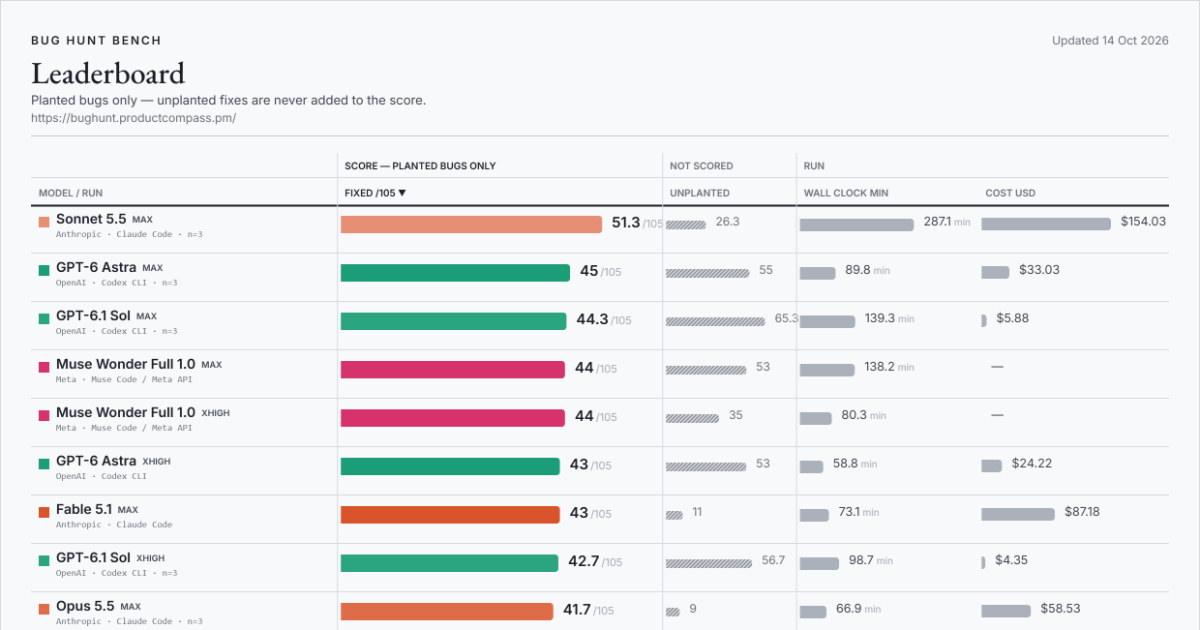
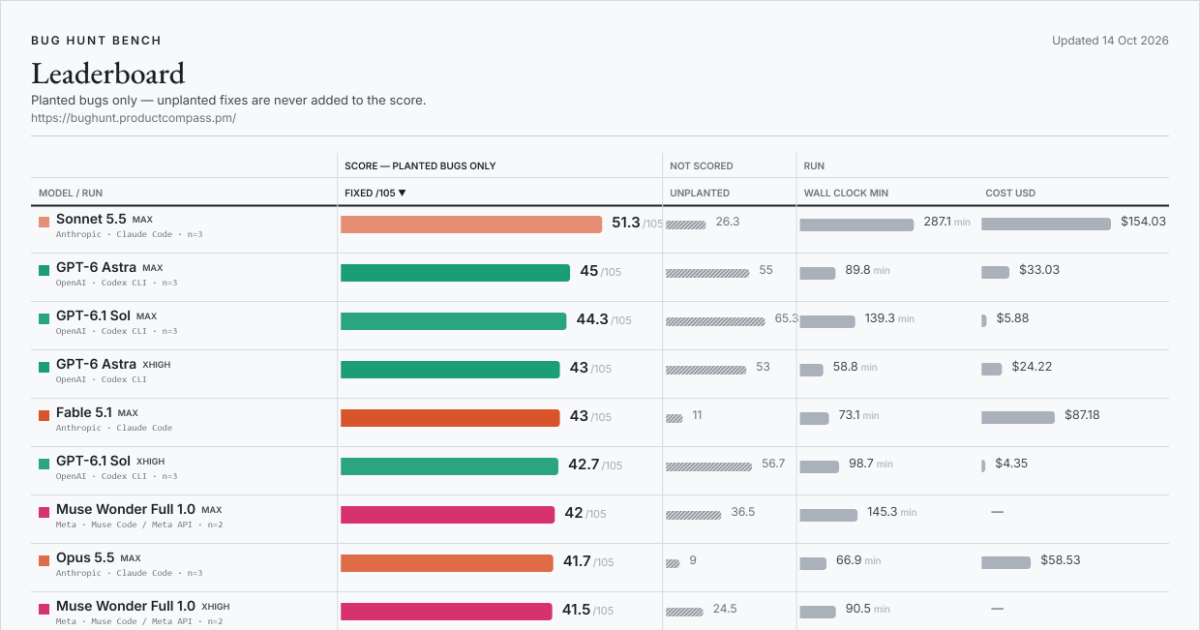
bug hunt bench: Muse Wonder Full 1.0 (max effort, Muse Code, Meta API) - mean of 2 (42/105)

diff --git a/index.html b/index.html
@@ -22,14 +22,14 @@
 <meta property="og:title" content="Bug Hunt Bench — frontier coding models against real planted bugs">
 <meta property="og:description" content="A blind-graded benchmark of frontier coding models on real bugs planted in two production codebases. The score counts planted bugs only; extra fixes are tracked separately and never added.">
 <meta property="og:url" content="https://bughunt.productcompass.pm/">
-<meta property="og:image" content="https://bughunt.productcompass.pm/og-image.png?v=2026-10-14-daccc48e">
+<meta property="og:image" content="https://bughunt.productcompass.pm/og-image.png?v=2026-10-14-f65923af">
 <meta property="og:image:width" content="1200">
 <meta property="og:image:height" content="630">
 <meta property="og:image:alt" content="Bug Hunt Bench leaderboard">
 <meta name="twitter:card" content="summary_large_image">
 <meta name="twitter:title" content="Bug Hunt Bench — frontier coding models against real planted bugs">
 <meta name="twitter:description" content="A blind-graded benchmark of frontier coding models on real bugs planted in two production codebases. The score counts planted bugs only.">
-<meta name="twitter:image" content="https://bughunt.productcompass.pm/og-image.png?v=2026-10-14-daccc48e">
+<meta name="twitter:image" content="https://bughunt.productcompass.pm/og-image.png?v=2026-10-14-f65923af">
 <meta name="twitter:creator" content="@PawelHuryn">
 
 <link rel="icon" href="/assets/favicon.svg" type="image/svg+xml">

diff --git a/method.html b/method.html
@@ -20,14 +20,14 @@
 <meta property="og:title" content="Method, caveats and definitions — Bug Hunt Bench">
 <meta property="og:description" content="How Bug Hunt Bench is run and graded, what the board cannot tell you, and what every column on it means.">
 <meta property="og:url" content="https://bughunt.productcompass.pm/method">
-<meta property="og:image" content="https://bughunt.productcompass.pm/og-image.png?v=2026-10-14-daccc48e">
+<meta property="og:image" content="https://bughunt.productcompass.pm/og-image.png?v=2026-10-14-f65923af">
 <meta property="og:image:width" content="1200">
 <meta property="og:image:height" content="630">
 <meta property="og:image:alt" content="Bug Hunt Bench leaderboard">
 <meta name="twitter:card" content="summary_large_image">
 <meta name="twitter:title" content="Method, caveats and definitions — Bug Hunt Bench">
 <meta name="twitter:description" content="How Bug Hunt Bench is run and graded, what the board cannot tell you, and what every column on it means.">
-<meta name="twitter:image" content="https://bughunt.productcompass.pm/og-image.png?v=2026-10-14-daccc48e">
+<meta name="twitter:image" content="https://bughunt.productcompass.pm/og-image.png?v=2026-10-14-f65923af">
 <meta name="twitter:creator" content="@PawelHuryn">
 
 <link rel="icon" href="/assets/favicon.svg" type="image/svg+xml">

diff --git a/results/run-notes.md b/results/run-notes.md
@@ -2,7 +2,7 @@
 
 Every row on the board, with the note and caveat it carries. Generated from `data/benchmark.json` by `bench_golive.py` - do not edit by hand.
 
-Updated Oct 14, 2026 · 180 rows from 221 scored runs. Superseded rows are listed last.
+Updated Oct 14, 2026 · 182 rows from 223 scored runs. Superseded rows are listed last.
 
 ## Sonnet 5.5 (max effort) - mean of 3
 
@@ -28,22 +28,6 @@ THE TOP ROW OF THIS BOARD, RUN THREE TIMES. Runs scored 48, 40 and 47 of 105 (re
 
 OpenAI's GPT-6.1 Sol at max effort through OpenAI's own Codex CLI, on a ChatGPT account, published as the MEAN OF THREE INDEPENDENT RUNS. Runs scored 44, 42 and 47 of 105 (repo 1: 21, 21, 25 - repo 2: 23, 21, 22). Mean 44.3, range 5. *** THIS SUPERSEDES GPT-6.1 SOL (MAX EFFORT) (44 OF 105) *** *** THE REPLICATES ARE BYTE-IDENTICAL TO THE FIRST RUN *** same model string, effort, pinned CLI, timeout, price table and blind judge; only the arm name differs, so the spread is run-to-run variance. *** WALL, COST AND TURNS *** walls 112.4, 175.1, 130.5 minutes; cost $6.56, $6.16, $4.92; turns 280, 294, 236. *** GENUINE EXTRAS *** 59, 58, 79 across the runs, never folded into the score. The GPT-6.1 Sol ladder elsewhere on the board: GPT-6.1 Sol at low 31, GPT-6.1 Sol at medium 28, GPT-6.1 Sol at high 38, GPT-6.1 Sol at xhigh 41. At the same tier the board publishes GPT-6 Sol at max 29.3 (mean of 3), GPT-6 Astra at max 45 (mean of 3), Sonnet 5.5 at max 51.3 (mean of 3) of 105. *** MAX IS NOT THIS MODEL'S TOP TIER *** the account's own Codex model list offers low, medium, high, xhigh, max, ultra for gpt-6.1-sol - 'ultra' sits above max ('Maximum reasoning with automatic task delegation'), so this row is not marked as the model's ceiling. *** THIS ROW RUNS A NEWER CODEX BUILD THAN THE OTHER OPENAI ROWS, UNAVOIDABLY *** the build the rest of this board's OpenAI rows use answers 'not supported when using Codex with a ChatGPT account' for this model on the same account at the same minute that Codex 0.159.0 runs it, so the blocker is the client, not entitlement. The GPT-6 Sol rows ran on 0.155.1, so a gap against them is model-plus-client. (That rejection message is generic - a made-up slug gets it word for word - so it is never evidence about whether a model exists; the API's own model list settled that.) *** THE TIER IS VERIFIED, NOT ASSUMED *** the effort is a first-party Codex tier from the account's own model list, and every leg's own Codex session record shows it ran at max. *** AN EARLIER ATTEMPT IS VOIDED IN THE LEDGER *** Codex's sandbox was misconfigured on the machine and refused every command the model tried, so it never ran one; the runner marked it void (exit 90) and the published figures are clean re-runs. *** COST IS A LIST ESTIMATE *** token counts at OpenAI's published GPT-6.1 Sol short-context rates, $2 input, $0.10 cached, $10 output per million. Requests over 272K input bill 2x on input and cache and 1.5x on output; none of these legs sent one - Codex caps this model's context below that line, and the session records confirm every request stayed under it. The Codex CLI on a subscription exposes no per-run bill, hence `list`. *** THE JUDGE IS NOT THIS BOARD'S DEFAULT, BY RULE *** a model may never judge itself or a sibling, and the default Codex judge is an OpenAI model, so it is disqualified for this arm. Judged by grok-4.7, blinded to the arm's identity - the id is read back from the scoring receipt. *** RECEIPTS *** Every leg exited 0 with a report written, run SEQUENTIALLY, one repo at a time, code mode off as on the GPT-6 Sol arms. No other benchmark leg overlapped these legs - the only load this board's marker records - but the laptop also ran interactive coding-agent sessions over these nights, at times near full CPU, so wall figures may run high; scores, tokens and cost are unaffected.
 
-## Muse Wonder Full 1.0 (max effort, Muse Code, Meta API)
-
-**44 / 105** · repo 1 22/45 · repo 2 22/60 · 53 unplanted · 138.2 min · — · `max` · Muse Code / Meta API · single run · 2026-10-13
-
-**Caveat.** One run (44 of 105). Cost unknown: Meta publishes no price for this model. Effort max is the top tier Meta lists for it, not magnitude-probed. Both repos ran at the same time.
-
-Meta's Muse Wonder Full 1.0 at max effort through Muse Code, Meta's own agent CLI, released 2026-10-12 alongside Muse Wonder 1.0. ONE RUN: 44 of 105 - 22 of 45 on repo 1 and 22 of 60 on repo 2 - with 2 partial fix(es), 0 claimed-only and 53 genuine unplanted extras; 138.2 minutes. *** AGAINST MUSE WONDER 1.0 *** same harness, route and effort: Wonder's mean of three is 31.7 (30, 36 and 29), 12.0 on repo 1 and 19.7 on repo 2. Full's lead is almost all on repo 1 (22 against 12.0); on repo 2 it sits near the top of Wonder's range. Muse Spark 1.3 at max stands at 32.2. A single run: Wonder's own three runs spread 7 points. *** COST UNKNOWN *** Meta publishes no rate for Full - its own model catalog lists the cost as empty and no aggregator carries the model - so the cost column is left blank rather than estimated. Tokens are exact: 108 million across both repos, 104 million of them cache reads. The run used a subscription, so there is no bill either. *** EFFORT max *** the top entry of the effort list Muse Code's model catalog gives this model (minimal to max); not magnitude-probed. The tier describes Muse Code's main loop; its reminder-observer side agent runs at its own fixed efforts. *** RECEIPTS *** Both legs exited 0, run at the same time. Muse Code 1.4.1 (1.4.1-R4503.1). Every leg shared the laptop with another arm, which the wall marker discloses - scores, tokens and cost are untouched by that, only the clock. Judge: blind Codex gpt-5.5, which is neither this model nor a sibling of it.
-
-## Muse Wonder Full 1.0 (xhigh effort, Muse Code, Meta API)
-
-**44 / 105** · repo 1 16/45 · repo 2 28/60 · 35 unplanted · 80.3 min · — · `xhigh` · Muse Code / Meta API · single run · 2026-10-13
-
-**Caveat.** One run (44 of 105). Cost unknown: Meta publishes no price for this model. Effort xhigh is one tier below max, not magnitude-probed. Both repos ran at the same time.
-
-Meta's Muse Wonder Full 1.0 at xhigh effort - one tier below max - through Muse Code, Meta's own agent CLI. ONE RUN: 44 of 105 - 16 of 45 on repo 1 and 28 of 60 on repo 2 - with 3 partial fix(es), 0 claimed-only and 35 genuine unplanted extras; 80.3 minutes. *** AGAINST MAX *** the same model at max, also one run, scored 44 (22 on repo 1, 22 on repo 2) in 138.2 minutes. The totals land together and the split does not: max led on repo 1, xhigh on repo 2. With one run each, the two tiers are not separated here. Muse Wonder 1.0 at max stands at 31.7 (mean of three) and Muse Spark 1.3 at max at 32.2. *** COST UNKNOWN *** Meta publishes no rate for Full - its own model catalog lists the cost as empty - so the cost column is left blank rather than estimated. Tokens are exact: 72 million across both repos. The run used a subscription, so there is no bill either. *** EFFORT xhigh *** a tier in the effort list Muse Code's model catalog gives this model (minimal to max); not magnitude-probed, not the ceiling. The tier describes Muse Code's main loop; its reminder-observer side agent runs at its own fixed efforts. *** RECEIPTS *** Both legs exited 0, run at the same time. Muse Code 1.4.1 (1.4.1-R4503.1). Every leg shared the laptop with another arm, which the wall marker discloses - scores, tokens and cost are untouched by that, only the clock. Judge: blind Codex gpt-5.5, which is neither this model nor a sibling of it.
-
 ## GPT-5.6 Sol (max effort) - mean of 2
 
 **43.5 / 105** · repo 1 19/45 · repo 2 24.5/60 · 48.5 unplanted · 253.1 min · $95.35 · `max` · Codex CLI · mean of 2 runs · 2026-09-16
@@ -68,6 +52,14 @@ THE FIRST REPLICATION OF THIS MODEL'S TOP EFFORT SETTING. Runs scored 40 and 47 
 
 OpenAI's GPT-6.1 Sol at xhigh effort through OpenAI's own Codex CLI, on a ChatGPT account, published as the MEAN OF THREE INDEPENDENT RUNS. Runs scored 41, 43 and 44 of 105 (repo 1: 24, 22, 21 - repo 2: 17, 21, 23). Mean 42.7, range 3. *** THIS SUPERSEDES GPT-6.1 SOL (XHIGH EFFORT) (41 OF 105) *** *** THE REPLICATES ARE BYTE-IDENTICAL TO THE FIRST RUN *** same model string, effort, pinned CLI, timeout, price table and blind judge; only the arm name differs, so the spread is run-to-run variance. *** WALL, COST AND TURNS *** walls 80.6, 98.9, 116.7 minutes; cost $4.68, $4.14, $4.22; turns 211, 189, 201. *** GENUINE EXTRAS *** 63, 46, 61 across the runs, never folded into the score. The GPT-6.1 Sol ladder elsewhere on the board: GPT-6.1 Sol at low 31, GPT-6.1 Sol at medium 28, GPT-6.1 Sol at high 38, GPT-6.1 Sol at max 44.3 (mean of 3). At the same tier the board publishes GPT-6 Sol at xhigh 25, GPT-6 Astra at xhigh 43, Sonnet 5.5 at xhigh 36 (mean of 3) of 105. *** THIS ROW RUNS A NEWER CODEX BUILD THAN THE OTHER OPENAI ROWS, UNAVOIDABLY *** the build the rest of this board's OpenAI rows use answers 'not supported when using Codex with a ChatGPT account' for this model on the same account at the same minute that Codex 0.159.0 runs it, so the blocker is the client, not entitlement. The GPT-6 Sol rows ran on 0.155.1, so a gap against them is model-plus-client. (That rejection message is generic - a made-up slug gets it word for word - so it is never evidence about whether a model exists; the API's own model list settled that.) *** THE TIER IS VERIFIED, NOT ASSUMED *** the effort is a first-party Codex tier from the account's own model list, and every leg's own Codex session record shows it ran at xhigh. *** COST IS A LIST ESTIMATE *** token counts at OpenAI's published GPT-6.1 Sol short-context rates, $2 input, $0.10 cached, $10 output per million. Requests over 272K input bill 2x on input and cache and 1.5x on output; none of these legs sent one - Codex caps this model's context below that line, and the session records confirm every request stayed under it. The Codex CLI on a subscription exposes no per-run bill, hence `list`. *** THE JUDGE IS NOT THIS BOARD'S DEFAULT, BY RULE *** a model may never judge itself or a sibling, and the default Codex judge is an OpenAI model, so it is disqualified for this arm. Judged by grok-4.7, blinded to the arm's identity - the id is read back from the scoring receipt. *** RECEIPTS *** Every leg exited 0 with a report written, run SEQUENTIALLY, one repo at a time, code mode off as on the GPT-6 Sol arms. No other benchmark leg overlapped these legs - the only load this board's marker records - but the laptop also ran interactive coding-agent sessions over these nights, at times near full CPU, so wall figures may run high; scores, tokens and cost are unaffected.
 
+## Muse Wonder Full 1.0 (max effort, Muse Code, Meta API) - mean of 2
+
+**42 / 105** · repo 1 21.5/45 · repo 2 20.5/60 · 36.5 unplanted · 145.3 min · — · `max` · Muse Code / Meta API · mean of 2 runs · 2026-10-14
+
+**Caveat.** Mean of two runs (44 and 40 of 105). Run 2 ran in resumed segments; its time is active time only, and it spans Muse Code 1.4.1 and 1.4.7. Cost unknown: Meta publishes no price for this model.
+
+Meta's Muse Wonder Full 1.0 at max effort through Muse Code, Meta's own agent CLI. MEAN OF TWO RUNS: 44 and 40 of 105 (repo 1: 22 and 21 of 45 - repo 2: 22 and 19 of 60), mean 42.0. Genuine unplanted extras 53 and 20; claimed-only fixes 0 and 0. Active minutes 138.2 and 152.3. *** XHIGH, ALSO A MEAN OF TWO *** stands at 41.5 (16.0 on repo 1, 25.5 on repo 2). One run each had tied the tiers at 44; two runs each put max narrowly ahead. The tiers split the repos consistently: max leads on repo 1, xhigh on repo 2. *** RUN 2 RAN IN SEGMENTS *** It was interrupted - by the subscription's usage windows, by an operator stop and by a closed console - and each time Muse Code continued the same session. Its wall counts active time only: each segment from its first model call to its last before any refusal; every pause is excluded. Run 2 also straddles a harness update: Muse Code 1.4.1 for its first segment(s), 1.4.7 after the launcher updated itself. *** COST UNKNOWN *** Meta publishes no rate for Full; the cost column is blank, not estimated. *** EFFORT max *** the top of the effort list Muse Code's catalog gives this model; not magnitude-probed. The tier describes Muse Code's main loop. *** RECEIPTS *** 2 of the 4 legs shared the laptop with another arm and the rest had it to themselves, which the wall marker discloses per leg - scores, tokens and cost are untouched by that, only the clock. Judge: blind Codex gpt-5.5, which is neither this model nor a sibling of it.
+
 ## Opus 5.5 (max effort) - mean of 3
 
 **41.7 / 105** · repo 1 19/45 · repo 2 22.7/60 · 9 unplanted · 66.9 min · $58.53 · `max` · Claude Code · mean of 3 runs · 2026-09-23
@@ -75,6 +67,14 @@ OpenAI's GPT-6.1 Sol at xhigh effort through OpenAI's own Codex CLI, on a ChatGP
 **Caveat.** Three runs of an identical configuration scoring 43, 39 and 43 of 105 - spread 4. Read the mean with that width, not as a point. Runs a 1M context window with zero compactions; every Opus 5 row here runs 200K and compacted, so this ladder does not compare cleanly to that one. Cost is a list-rate estimate, not an invoice. Wall figures are contended.
 
 Anthropic's Opus 5.5 at max effort through Claude Code on the first-party API, published as the MEAN OF THREE INDEPENDENT RUNS. Runs scored 43, 39 and 43 of 105 (repo 1: 18, 17, 22 of 45 - repo 2: 25, 22, 21 of 60). Mean 41.7, spread 4. *** THIS SUPERSEDES OPUS 5.5 (MAX EFFORT) - MEAN OF 2 (41.0 OF 105) *** *** WHY THE REPLICATES EXIST *** the first pass measured this ladder at one run per rung and it came out monotone - medium 30, high 32, xhigh 35, max 43. That was suggestive and nothing more: no gap in it exceeded the 13-point spread this board has measured between two runs of ONE identical max-effort configuration, so the ordering of any two adjacent rungs was unresolved and every note said so. Three runs per rung is what can resolve it, and the whole ladder is being re-measured that way rather than only its top. The board currently reads low 22.3 (n=3), medium 30.3 (n=3), high 31.7 (n=3), xhigh 36 (n=3), max 41.7 (n=3). *** THE REPLICATES ARE BYTE-IDENTICAL TO THE FIRST RUN *** same model string claude-opus-5-5[1m], same effort, same timeout, same price table, same blind judge. Only the arm name differs, so the spread above is run-to-run variance and nothing else. *** WALL AND COST *** Walls 68.5, 60.0, 72.2 minutes, mean 66.9; cost $60.49, $58.39, $56.69, mean $58.52. COST IS A LIST ESTIMATE at Anthropic's published Opus 5.5 rates - $4 input, $20 output, $0.20 cache read (a 0.05x cache multiplier unique to this model, where every other model here uses 0.1x) and $8 cache write, the 1-hour rate, which is what this harness actually writes and what the streams confirm. Not an invoice, hence `list`. *** GENUINE EXTRAS *** 9, 9 and 9 across the runs, mean 9.0 - real defects found in the repos that nobody planted, reported separately and never folded into the score. *** THE CONTEXT WINDOW *** every run here holds a 1M window and crosses zero compaction boundaries, so these rows compare cleanly to each other and NOT to the Opus 5 ladder, which ran the CLI's default 200K and compacted repeatedly mid-task. Autocompact ran at the CLI's own default throughout. *** RECEIPTS *** All legs exited 0, run SEQUENTIALLY, one repo at a time. Judge: blind Codex gpt-5.5 on every leg - an OpenAI model scoring an Anthropic one, so neither the model itself nor a sibling of it. The runs shared the laptop with legs from other vendors, which the wall marker discloses; scores, tokens and cost are untouched by that, only the clock.
+
+## Muse Wonder Full 1.0 (xhigh effort, Muse Code, Meta API) - mean of 2
+
+**41.5 / 105** · repo 1 16/45 · repo 2 25.5/60 · 24.5 unplanted · 90.5 min · — · `xhigh` · Muse Code / Meta API · mean of 2 runs · 2026-10-14
+
+**Caveat.** Mean of two runs (44 and 39 of 105). Run 2 ran in resumed segments; its time is active time only, and it spans Muse Code 1.4.1 and 1.4.7. Cost unknown: Meta publishes no price for this model.
+
+Meta's Muse Wonder Full 1.0 at xhigh effort through Muse Code, Meta's own agent CLI. MEAN OF TWO RUNS: 44 and 39 of 105 (repo 1: 16 and 16 of 45 - repo 2: 28 and 23 of 60), mean 41.5. Genuine unplanted extras 35 and 14; claimed-only fixes 0 and 0. Active minutes 80.3 and 100.8. *** MAX, ALSO A MEAN OF TWO *** stands at 42.0 (21.5 on repo 1, 20.5 on repo 2). One run each had tied the tiers at 44; two runs each put max narrowly ahead. The tiers split the repos consistently: max leads on repo 1, xhigh on repo 2. *** RUN 2 RAN IN SEGMENTS *** It was interrupted - by the subscription's usage windows, by an operator stop and by a closed console - and each time Muse Code continued the same session. Its wall counts active time only: each segment from its first model call to its last before any refusal; every pause is excluded. Run 2 also straddles a harness update: Muse Code 1.4.1 for its first segment(s), 1.4.7 after the launcher updated itself. *** COST UNKNOWN *** Meta publishes no rate for Full; the cost column is blank, not estimated. *** EFFORT xhigh *** one tier below the top of the effort list Muse Code's catalog gives this model; not magnitude-probed. The tier describes Muse Code's main loop. *** RECEIPTS *** 2 of the 4 legs shared the laptop with another arm and the rest had it to themselves, which the wall marker discloses per leg - scores, tokens and cost are untouched by that, only the clock. Judge: blind Codex gpt-5.5, which is neither this model nor a sibling of it.
 
 ## Gemini 4 Argon (high effort, Antigravity CLI) - mean of 3
 
@@ -833,6 +833,26 @@ Anthropic's Sonnet 5.5 at max effort through Claude Code on the first-party API,
 **Caveat.** ONE RUN, not a mean - this board has measured a 13-point spread between two runs of a single identical configuration, so treat 44 as one draw. It runs Codex 0.159.0, newer than every other OpenAI row, because the build the others use refuses this model; the harness is not held fixed across that comparison. Max is not this model's top tier (the account also offers ultra). Cost is a list-rate estimate; no request reached the long-context rates (Codex caps the context for this model below 272K). The wall figure may include load from other work on the laptop.
 
 OpenAI's GPT-6.1 Sol at max effort through OpenAI's own Codex CLI, on a ChatGPT account - the same auth path as every other Sol, Astra, Terra and Luna row here, NOT the metered API. 44 of 105: 21 of 45 on repo 1 and 23 of 60 on repo 2, 59 genuine extras, 112.4 minutes, $6.56, 280 turns (133 and 147). ONE RUN, measured the night the model became reachable. For comparison the board publishes GPT-6 Sol at max 29.3 (mean of 3), GPT-6 Astra at max 45 (mean of 3), GPT-5.6 Sol at max 43.5 (mean of 2), Sonnet 5.5 at max 51.3 (mean of 3) of 105. *** MAX IS NOT THIS MODEL'S TOP TIER *** the account's own Codex model list offers low, medium, high, xhigh, max, ultra for gpt-6.1-sol - 'ultra' sits above max ('Maximum reasoning with automatic task delegation'), so this row is not marked as the model's ceiling. *** THIS ROW RUNS A NEWER CODEX BUILD THAN THE OTHER OPENAI ROWS, UNAVOIDABLY *** the build the rest of this board's OpenAI rows use answers 'not supported when using Codex with a ChatGPT account' for this model on the same account at the same minute that Codex 0.159.0 runs it, so the blocker is the client, not entitlement. The GPT-6 Sol rows ran on 0.155.1, so a gap against them is model-plus-client. (That rejection message is generic - a made-up slug gets it word for word - so it is never evidence about whether a model exists; the API's own model list settled that.) *** AN EARLIER ATTEMPT IS VOIDED IN THE LEDGER *** Codex's sandbox was misconfigured on the machine and refused every command the model tried, so it never ran one; the runner marked it void (exit 90) and this row is a clean re-run. *** COST IS A LIST ESTIMATE *** token counts at OpenAI's published GPT-6.1 Sol short-context rates, $2 input, $0.10 cached, $10 output per million - half GPT-6 Sol's cached rate. Requests over 272K input bill 2x on input and cache and 1.5x on output; none of these legs sent one - Codex caps this model's context below that line, and the session records confirm every request stayed under it. The Codex CLI on a subscription exposes no per-run bill, hence `list`. *** THE JUDGE IS NOT THIS BOARD'S DEFAULT, BY RULE *** a model may never judge itself or a sibling, and the default Codex judge is an OpenAI model, so it is disqualified for this arm. Judged by grok-4.7, blinded to the arm's identity - the id is read back from the scoring receipt. *** RECEIPTS *** Both legs exited 0 with a report written, run SEQUENTIALLY, one repo at a time, code mode off as on the GPT-6 Sol arms. No other benchmark leg overlapped either leg - the only load this board's marker records - but the laptop was running several interactive coding-agent sessions that evening, at times near full CPU, so the wall figure may run high; scores, tokens and cost are unaffected.
+
+## Muse Wonder Full 1.0 (max effort, Muse Code, Meta API)
+
+**44 / 105** · repo 1 22/45 · repo 2 22/60 · 53 unplanted · 138.2 min · — · `max` · Muse Code / Meta API · single run · 2026-10-13
+
+**Superseded.** Superseded 2026-10-14 by the mean of two runs (42.0 of 105). This row reported 44 of 105 from a single run. Nothing here is retracted - it is the receipt for what the board showed before run 2.
+
+**Caveat.** One run (44 of 105). Cost unknown: Meta publishes no price for this model. Effort max is the top tier Meta lists for it, not magnitude-probed. Both repos ran at the same time.
+
+Meta's Muse Wonder Full 1.0 at max effort through Muse Code, Meta's own agent CLI, released 2026-10-12 alongside Muse Wonder 1.0. ONE RUN: 44 of 105 - 22 of 45 on repo 1 and 22 of 60 on repo 2 - with 2 partial fix(es), 0 claimed-only and 53 genuine unplanted extras; 138.2 minutes. *** AGAINST MUSE WONDER 1.0 *** same harness, route and effort: Wonder's mean of three is 31.7 (30, 36 and 29), 12.0 on repo 1 and 19.7 on repo 2. Full's lead is almost all on repo 1 (22 against 12.0); on repo 2 it sits near the top of Wonder's range. Muse Spark 1.3 at max stands at 32.2. A single run: Wonder's own three runs spread 7 points. *** COST UNKNOWN *** Meta publishes no rate for Full - its own model catalog lists the cost as empty and no aggregator carries the model - so the cost column is left blank rather than estimated. Tokens are exact: 108 million across both repos, 104 million of them cache reads. The run used a subscription, so there is no bill either. *** EFFORT max *** the top entry of the effort list Muse Code's model catalog gives this model (minimal to max); not magnitude-probed. The tier describes Muse Code's main loop; its reminder-observer side agent runs at its own fixed efforts. *** RECEIPTS *** Both legs exited 0, run at the same time. Muse Code 1.4.1 (1.4.1-R4503.1). Every leg shared the laptop with another arm, which the wall marker discloses - scores, tokens and cost are untouched by that, only the clock. Judge: blind Codex gpt-5.5, which is neither this model nor a sibling of it.
+
+## Muse Wonder Full 1.0 (xhigh effort, Muse Code, Meta API)
+
+**44 / 105** · repo 1 16/45 · repo 2 28/60 · 35 unplanted · 80.3 min · — · `xhigh` · Muse Code / Meta API · single run · 2026-10-13
+
+**Superseded.** Superseded 2026-10-14 by the mean of two runs (41.5 of 105). This row reported 44 of 105 from a single run. Nothing here is retracted - it is the receipt for what the board showed before run 2.
+
+**Caveat.** One run (44 of 105). Cost unknown: Meta publishes no price for this model. Effort xhigh is one tier below max, not magnitude-probed. Both repos ran at the same time.
+
+Meta's Muse Wonder Full 1.0 at xhigh effort - one tier below max - through Muse Code, Meta's own agent CLI. ONE RUN: 44 of 105 - 16 of 45 on repo 1 and 28 of 60 on repo 2 - with 3 partial fix(es), 0 claimed-only and 35 genuine unplanted extras; 80.3 minutes. *** AGAINST MAX *** the same model at max, also one run, scored 44 (22 on repo 1, 22 on repo 2) in 138.2 minutes. The totals land together and the split does not: max led on repo 1, xhigh on repo 2. With one run each, the two tiers are not separated here. Muse Wonder 1.0 at max stands at 31.7 (mean of three) and Muse Spark 1.3 at max at 32.2. *** COST UNKNOWN *** Meta publishes no rate for Full - its own model catalog lists the cost as empty - so the cost column is left blank rather than estimated. Tokens are exact: 72 million across both repos. The run used a subscription, so there is no bill either. *** EFFORT xhigh *** a tier in the effort list Muse Code's model catalog gives this model (minimal to max); not magnitude-probed, not the ceiling. The tier describes Muse Code's main loop; its reminder-observer side agent runs at its own fixed efforts. *** RECEIPTS *** Both legs exited 0, run at the same time. Muse Code 1.4.1 (1.4.1-R4503.1). Every leg shared the laptop with another arm, which the wall marker discloses - scores, tokens and cost are untouched by that, only the clock. Judge: blind Codex gpt-5.5, which is neither this model nor a sibling of it.
 
 ## Opus 5.5 (max effort)
 

diff --git a/README.md b/README.md
@@ -7,26 +7,26 @@
 If the numbers save you a benchmark run of your own, **star this repo** — that is what keeps the bench findable, and new models are added as they ship.
 
 <!-- leaderboard:start -->
-![Bug Hunt Bench leaderboard, the featured runs, updated Oct 14, 2026](assets/leaderboard.png?v=2026-10-14-286c3702)
+![Bug Hunt Bench leaderboard, the featured runs, updated Oct 14, 2026](assets/leaderboard.png?v=2026-10-14-1c33e1f5)
 
-**Updated Oct 14, 2026 · 180 rows from 221 scored runs · 46 models · 26 of 105 bugs have never been fixed by any model.**
+**Updated Oct 14, 2026 · 182 rows from 223 scored runs · 46 models · 26 of 105 bugs have never been fixed by any model.**
 
 **Current leader:** Sonnet 5.5 at `max` effort — **51.3 / 105** (22.7/45 on repo 1, 28.7/60 on repo 2).
 
-**Best per lab:** Anthropic: Sonnet 5.5 (`max`) 51.3 · OpenAI: GPT-6 Astra (`max`) 45 · Meta: Muse Wonder Full 1.0 (`max`) 44 · Google: Gemini 4 Argon (`high`) 40.7 · Unbiased: Pareto (ex-Union Alpha) (`default`) 30.7 · xAI: Grok 4.7 (`xhigh`) 29 · Alibaba: Qwen3.8-Flash (`max`) 26 · Xiaomi: MiMo-V2.6-Flash (`default`) 23.3 · DeepSeek: DeepSeek V4.1 Flash (`max`) 21.7 · Moonshot AI: Kimi K3 (`default`) 21 · Z.ai: GLM-5.3 (`max`) 19 · Tencent: Hy4 Preview (`default`) 18 · Mistral: Mistral Large 4 (`high`) 15
+**Best per lab:** Anthropic: Sonnet 5.5 (`max`) 51.3 · OpenAI: GPT-6 Astra (`max`) 45 · Meta: Muse Wonder Full 1.0 (`max`) 42 · Google: Gemini 4 Argon (`high`) 40.7 · Unbiased: Pareto (ex-Union Alpha) (`default`) 30.7 · xAI: Grok 4.7 (`xhigh`) 29 · Alibaba: Qwen3.8-Flash (`max`) 26 · Xiaomi: MiMo-V2.6-Flash (`default`) 23.3 · DeepSeek: DeepSeek V4.1 Flash (`max`) 21.7 · Moonshot AI: Kimi K3 (`default`) 21 · Z.ai: GLM-5.3 (`max`) 19 · Tencent: Hy4 Preview (`default`) 18 · Mistral: Mistral Large 4 (`high`) 15
 
 | # | Model | Harness | Effort | Runs | Fixed /105 | Repo 1 /45 | Repo 2 /60 | Extras | Wall | Cost | Date |
 |--:|---|---|---|--:|--:|--:|--:|--:|--:|--:|---|
 | 1 | Sonnet 5.5 | Claude Code | max | 3 | **51.3** | 22.7 | 28.7 | 26.3 | 287 min | $154.03 | 2026-09-29 |
 | 2 | GPT-6 Astra | Codex CLI | max | 3 | **45** | 22 | 23 | 55 | 90 min | $33.03 | 2026-09-14 |
 | 3 | GPT-6.1 Sol | Codex CLI | max | 3 | **44.3** | 22.3 | 22 | 65.3 | 139 min | $5.88 | 2026-09-30 |
-| 4 | Muse Wonder Full 1.0 | Muse Code / Meta API | max | 1 | **44** | 22 | 22 | 53 | 138 min | — | 2026-10-13 |
-| 5 | Muse Wonder Full 1.0 | Muse Code / Meta API | xhigh | 1 | **44** | 16 | 28 | 35 | 80 min | — | 2026-10-13 |
-| 6 | GPT-5.6 Sol | Codex CLI | max | 2 | **43.5** | 19 | 24.5 | 48.5 | 253 min | $95.35 | 2026-09-16 |
-| 7 | GPT-6 Astra | Codex CLI | xhigh | 1 | **43** | 23 | 20 | 53 | 59 min | $24.22 | 2026-09-04 |
-| 8 | Fable 5.1 | Claude Code | max | 1 | **43** | 19 | 24 | 11 | 73 min | $87.18 | 2026-09-01 |
-| 9 | GPT-6.1 Sol | Codex CLI | xhigh | 3 | **42.7** | 22.3 | 20.3 | 56.7 | 99 min | $4.35 | 2026-09-30 |
-| 10 | Opus 5.5 | Claude Code | max | 3 | **41.7** | 19 | 22.7 | 9 | 67 min | $58.53 | 2026-09-23 |
+| 4 | GPT-5.6 Sol | Codex CLI | max | 2 | **43.5** | 19 | 24.5 | 48.5 | 253 min | $95.35 | 2026-09-16 |
+| 5 | GPT-6 Astra | Codex CLI | xhigh | 1 | **43** | 23 | 20 | 53 | 59 min | $24.22 | 2026-09-04 |
+| 6 | Fable 5.1 | Claude Code | max | 1 | **43** | 19 | 24 | 11 | 73 min | $87.18 | 2026-09-01 |
+| 7 | GPT-6.1 Sol | Codex CLI | xhigh | 3 | **42.7** | 22.3 | 20.3 | 56.7 | 99 min | $4.35 | 2026-09-30 |
+| 8 | Muse Wonder Full 1.0 | Muse Code / Meta API | max | 2 | **42** | 21.5 | 20.5 | 36.5 | 145 min | — | 2026-10-14 |
+| 9 | Opus 5.5 | Claude Code | max | 3 | **41.7** | 19 | 22.7 | 9 | 67 min | $58.53 | 2026-09-23 |
+| 10 | Muse Wonder Full 1.0 | Muse Code / Meta API | xhigh | 2 | **41.5** | 16 | 25.5 | 24.5 | 90 min | — | 2026-10-14 |
 | 11 | Gemini 4 Argon | Antigravity CLI | high | 3 | **40.7** | 13 | 27.7 | 7.3 | 56 min | $7.16 | 2026-10-14 |
 | 12 | GPT-5.6 Sol | Codex CLI | xhigh | 1 | **39** | 18 | 21 | 59 | 126 min | $52.75 | 2026-08-28 |
 | 13 | GPT-6.1 Sol | Codex CLI | high | 2 | **36.5** | 17 | 19.5 | 40 | 70 min | $3.26 | 2026-09-30 |
@@ -138,7 +138,7 @@ If the numbers save you a benchmark run of your own, **star this repo** — that
 Extras are real, unplanted defects a model fixed on the way; they are counted and never added to the score. Costs are token estimates at published list rates unless tagged **bill** (an actual invoice or credits delta) or **floor** (a reconstructed lower bound). `default` effort means the serving path had no working effort dial; *ran lower* marks a run whose CLI quietly replaced the requested tier. Wall clock is repo 1 plus repo 2 agent time, dependency install excluded.
 Every row's full note, caveat and supersession history is in [results/run-notes.md](https://github.com/phuryn/bug-hunt-bench/blob/main/results/run-notes.md); the runs behind each one are in the metrics CSVs.
 
-65 superseded re-runs stay in the CSVs and on the [live board](https://bughunt.productcompass.pm/?preset=all) but are left off this table.
+67 superseded re-runs stay in the CSVs and on the [live board](https://bughunt.productcompass.pm/?preset=all) but are left off this table.
 <!-- leaderboard:end -->
 
 ## What Bug Hunt Bench is

diff --git a/results/waves.md b/results/waves.md
@@ -4148,3 +4148,23 @@ claimed fix was missing in either run.
 loop's calls; a couple of the CLI's own side calls per run go out at HIGH regardless of the setting.
 
 **Cost** is a list estimate from Google's per-call usage at its launch rate, computed that way from the start.
+
+## Muse Wonder Full 1.0, max and xhigh as means of two — the tie breaks, narrowly (Oct 14)
+
+One run each had put max and xhigh level at 44. A second run of each settles the order, just.
+
+| Row | Runs | Score | Repo 1 | Repo 2 | Extras | Wall | Cost |
+|---|---|---|---|---|---|---|---|
+| Muse Wonder Full 1.0 (max effort, Muse Code, Meta API) - mean of 2 | mean of 2 | **42.0** / 105 | 21.5 / 45 | 20.5 / 60 | 36.5 | 145.3 min | unknown |
+| Muse Wonder Full 1.0 (xhigh effort, Muse Code, Meta API) - mean of 2 | mean of 2 | **41.5** / 105 | 16.0 / 45 | 25.5 / 60 | 24.5 | 90.5 min | unknown |
+
+Max scored 44 and 40, xhigh 44 and 39. The tiers split the repos the same way both times: max leads on repo 1
+(22 and 21 against 16 and 16), xhigh on repo 2 (28 and 23 against 22 and 19). Max takes about half again as long.
+No claimed fix was missing in any of the four runs. The two single-run rows are superseded and kept.
+
+**Both second runs ran in segments.** They were interrupted - by the subscription's usage windows, by an operator
+stop and by a closed console - and each time Muse Code continued the same session. Their time counts active work
+only: each segment from its first model call to its last before any refusal. They also straddle a harness update,
+Muse Code 1.4.1 to 1.4.7, when the launcher updated itself between segments.
+
+**Cost stays blank:** Meta publishes no rate for Full.
